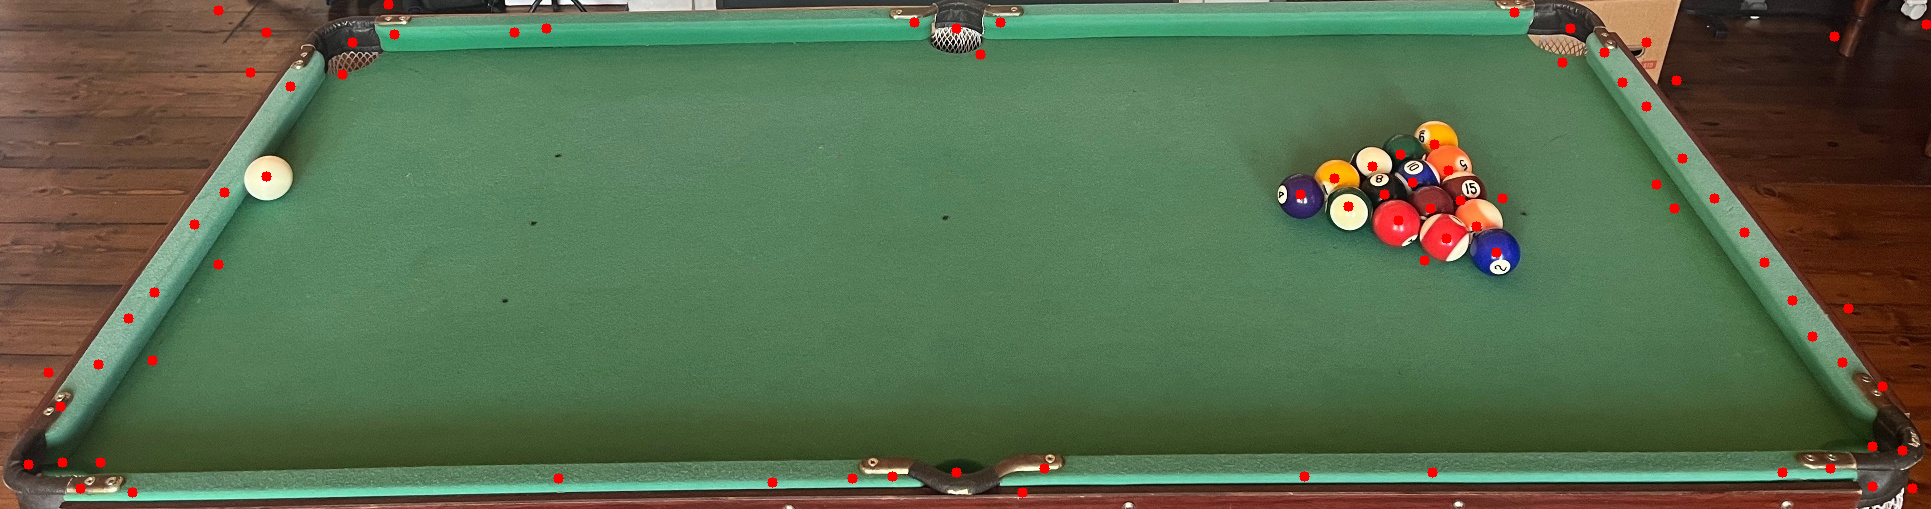
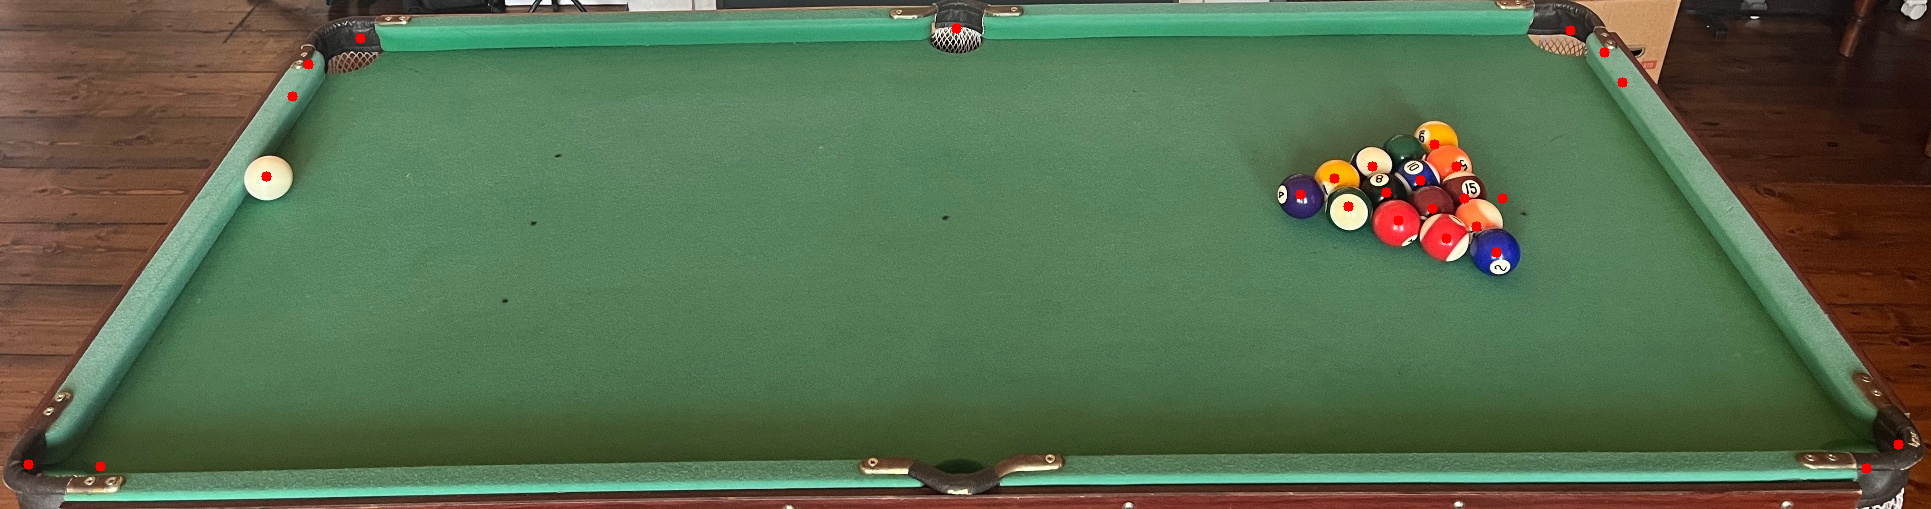
added fn to myApp

diff --git a/MyApplication.cpp b/MyApplication.cpp
@@ -229,7 +229,7 @@ vector<Vec3f> recoverDarkBalls(const Mat&original, const vector<Vec3f> & accepte
             continue;
         
         //diff betw surroundign cloth and ball brightness
-        double contrast = surroundBrightness / surroundCount = innerBrightness/ innerCount;
+        double contrast = surroundBrightness / surroundCount - innerBrightness/ innerCount;
         double edgeFraction = double(edgeCount) / edgePixels; // frac of px that are edges
         double foregroundFraction = double(foregroundCount) / diskCount;
 
@@ -890,6 +890,8 @@ void MyApplication() {
 
 	//filter potential balls
 	vector<Vec3f> ballPositions = filterBalls(potential, fgMask);
+    //second go to recover dark balls missed
+    ballPositions = recoverDarkBalls(original, ballPositions, fgMask);
 
     //get ball centres
     vector<Point2f> ogPositions;
